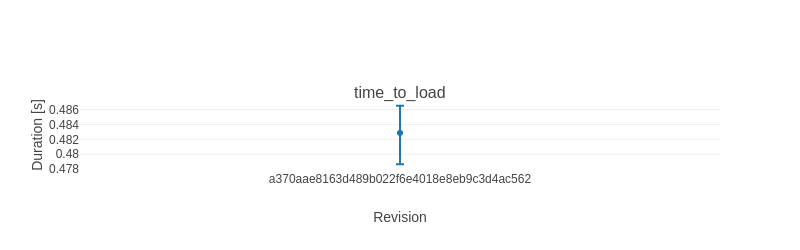
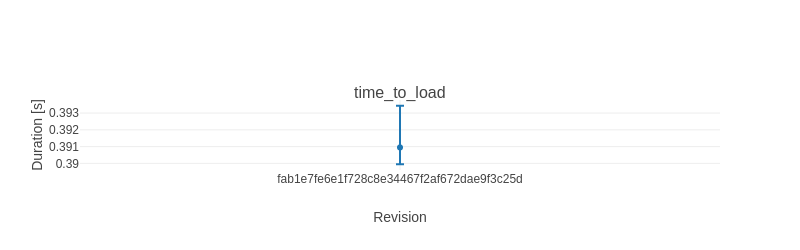
Deploying to benchmarks from @ EpiAware/ReparameterisedDistributions.jl@fab1e7fe6e1f728c8e34467f2af672dae9f3c25d 🚀

Changed region(s): [[0.3125, 0.672, 0.6562, 0.756], [0.0625, 0.42, 0.0938, 0.7]]

diff --git a/history/table.md b/history/table.md
@@ -1,8 +1,8 @@
-|              | a370aae8163d48... |
+|              | fab1e7fe6e1f72... |
 |:-------------|:-----------------:|
-| time_to_load | 0.483 ± 0.0079 s  |
+| time_to_load | 0.391 ± 0.0035 s  |
 
-|              | a370aae8163d48...       |
+|              | fab1e7fe6e1f72...       |
 |:-------------|:-----------------------:|
 | time_to_load | 0.149 k allocs: 11.2 kB |
 

diff --git a/history/README.md b/history/README.md
@@ -1,6 +1,6 @@
 # ReparameterisedDistributions.jl benchmark history
 
-Revisions: a370aae8163d489b022f6e4018e8eb9c3d4ac562
+Revisions: fab1e7fe6e1f728c8e34467f2af672dae9f3c25d
 
 See `table.md` for the ratio summary and the PNG
 files in this folder for per-benchmark timelines.